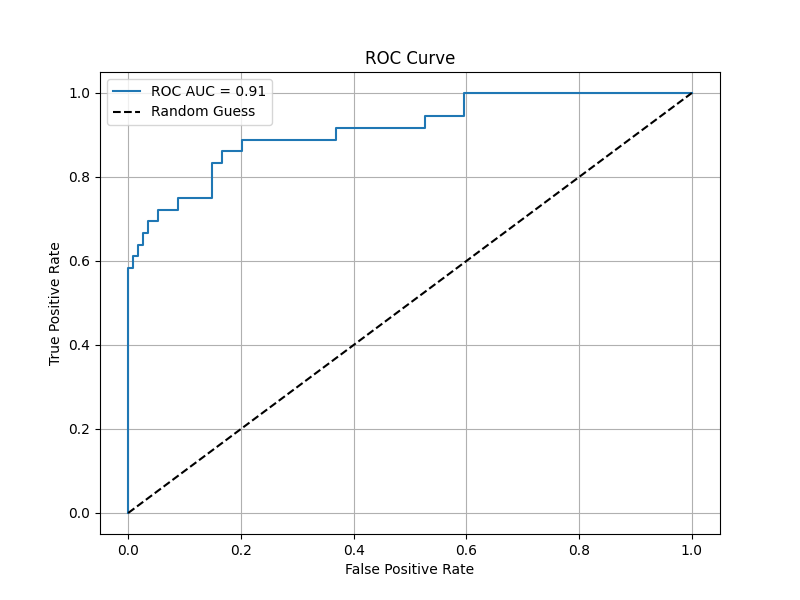
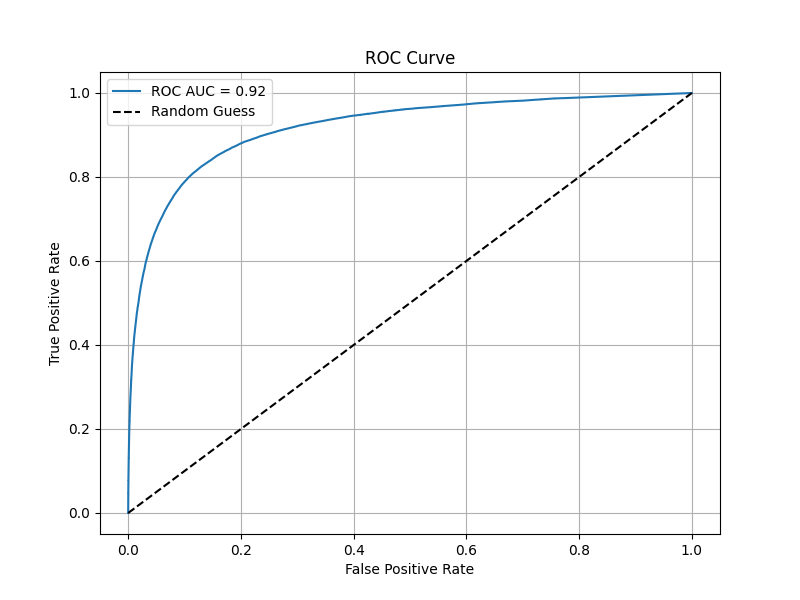
tf_idf done

Changed region(s): [[0.3125, 0.15, 0.8438, 0.24], [0.1562, 0.39, 0.1875, 0.75], [0.1875, 0.24, 0.3125, 0.39]]

diff --git a/tf_idf.py b/tf_idf.py
@@ -23,8 +23,7 @@ depression = pd.read_csv("../share/use_this_one.tsv.gz", sep="\t", compression="
 columns_to_keep = ['label', 'cleaned_body', 'unique_id']
 depression = depression[columns_to_keep]
 
-# Limit to 1000 shuffled entries for a test run
-depression = depression.sample(n=1000, random_state=42)
+
 
 # Helper Function to Balance Classes
 def balance_classes(X, y):
